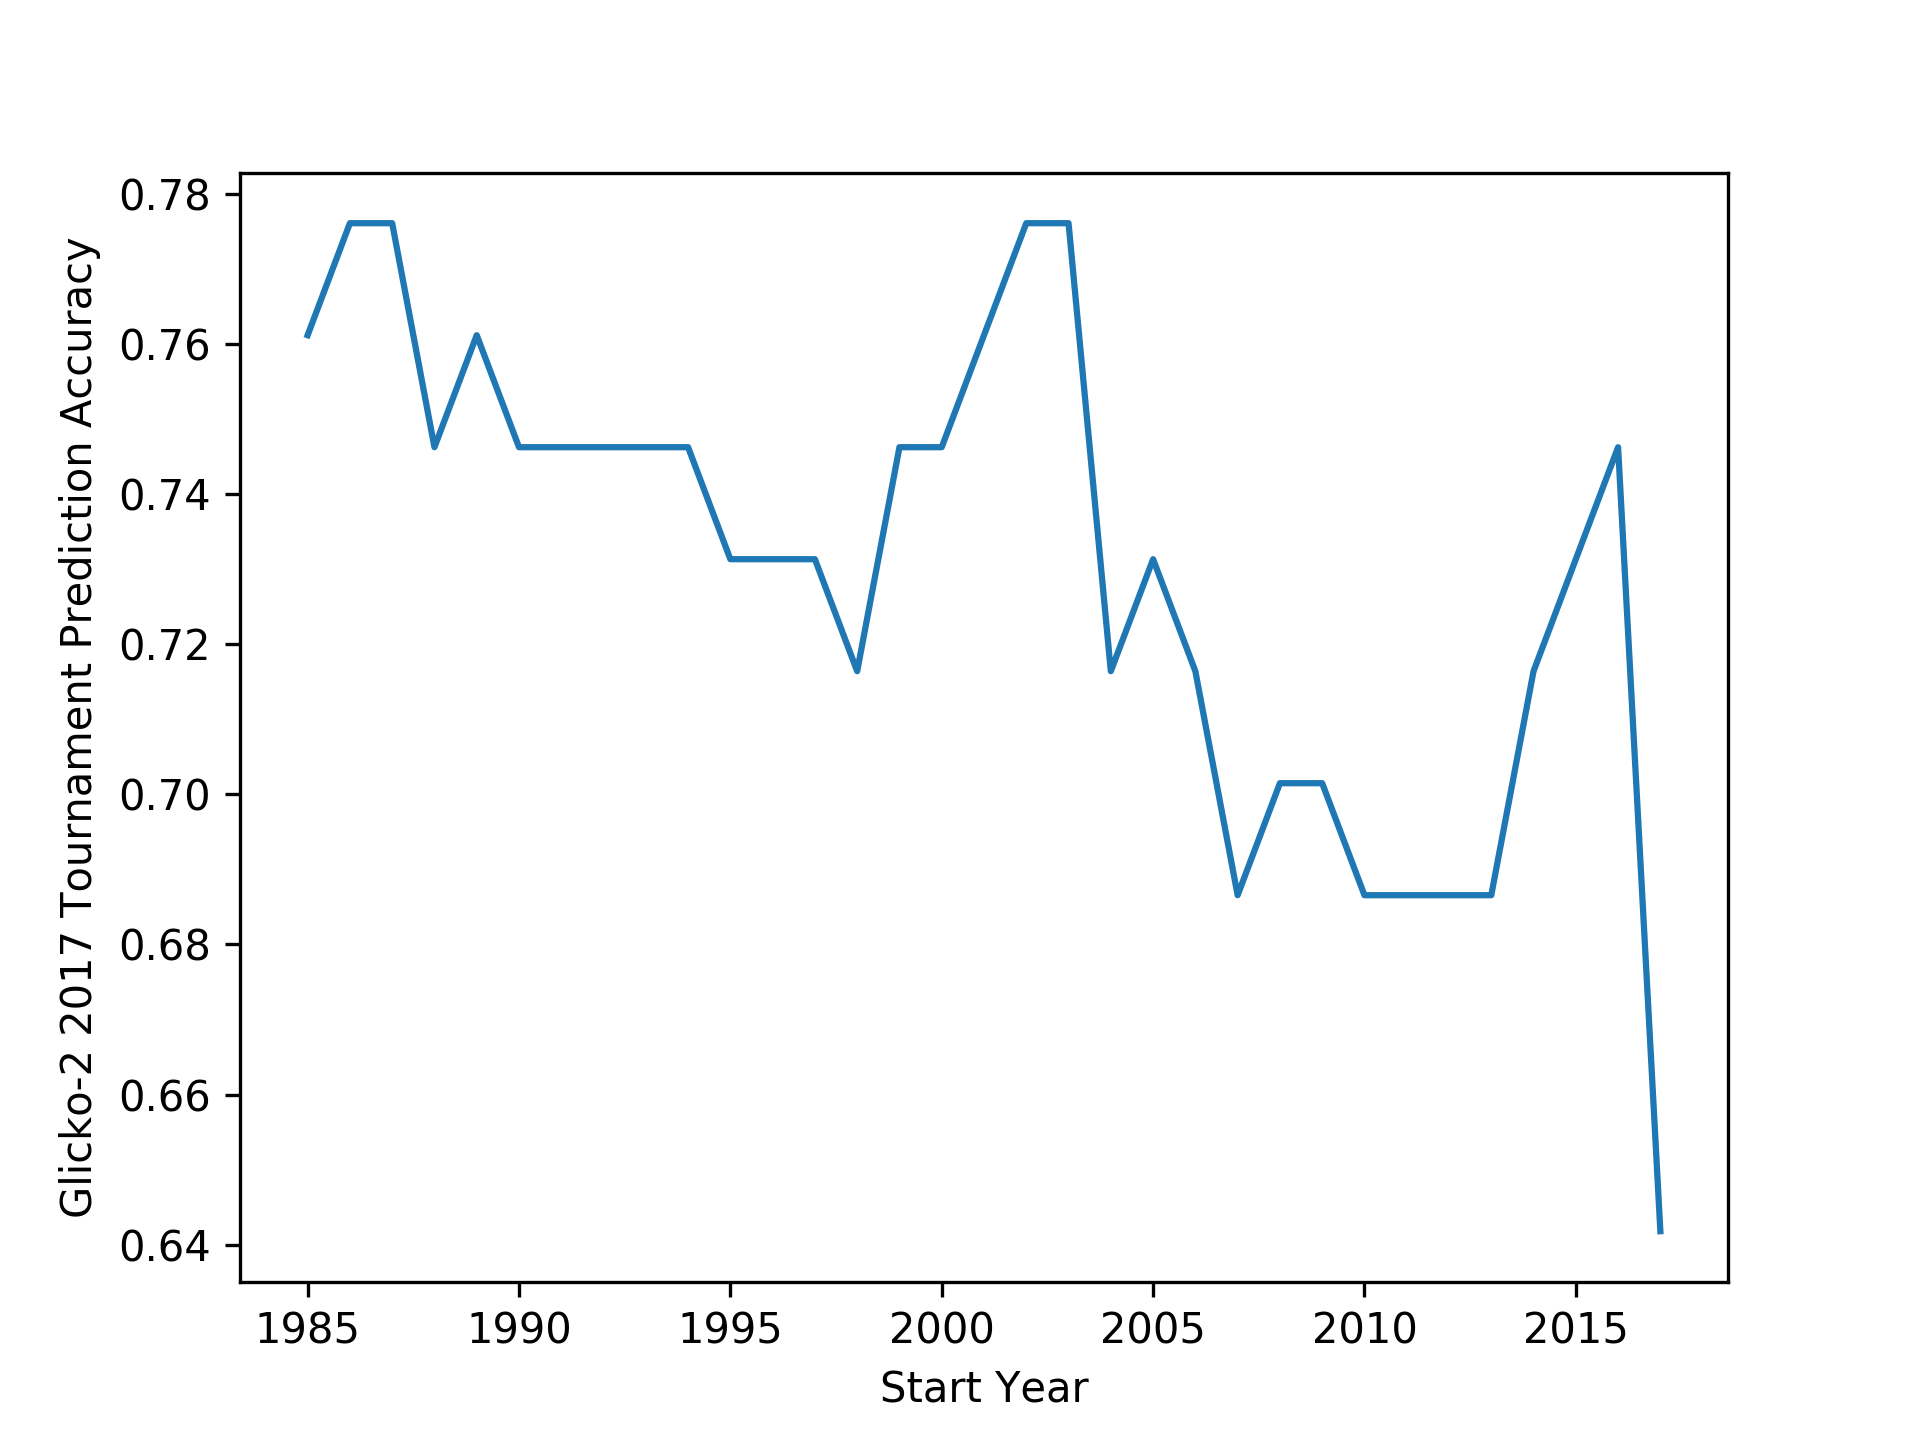
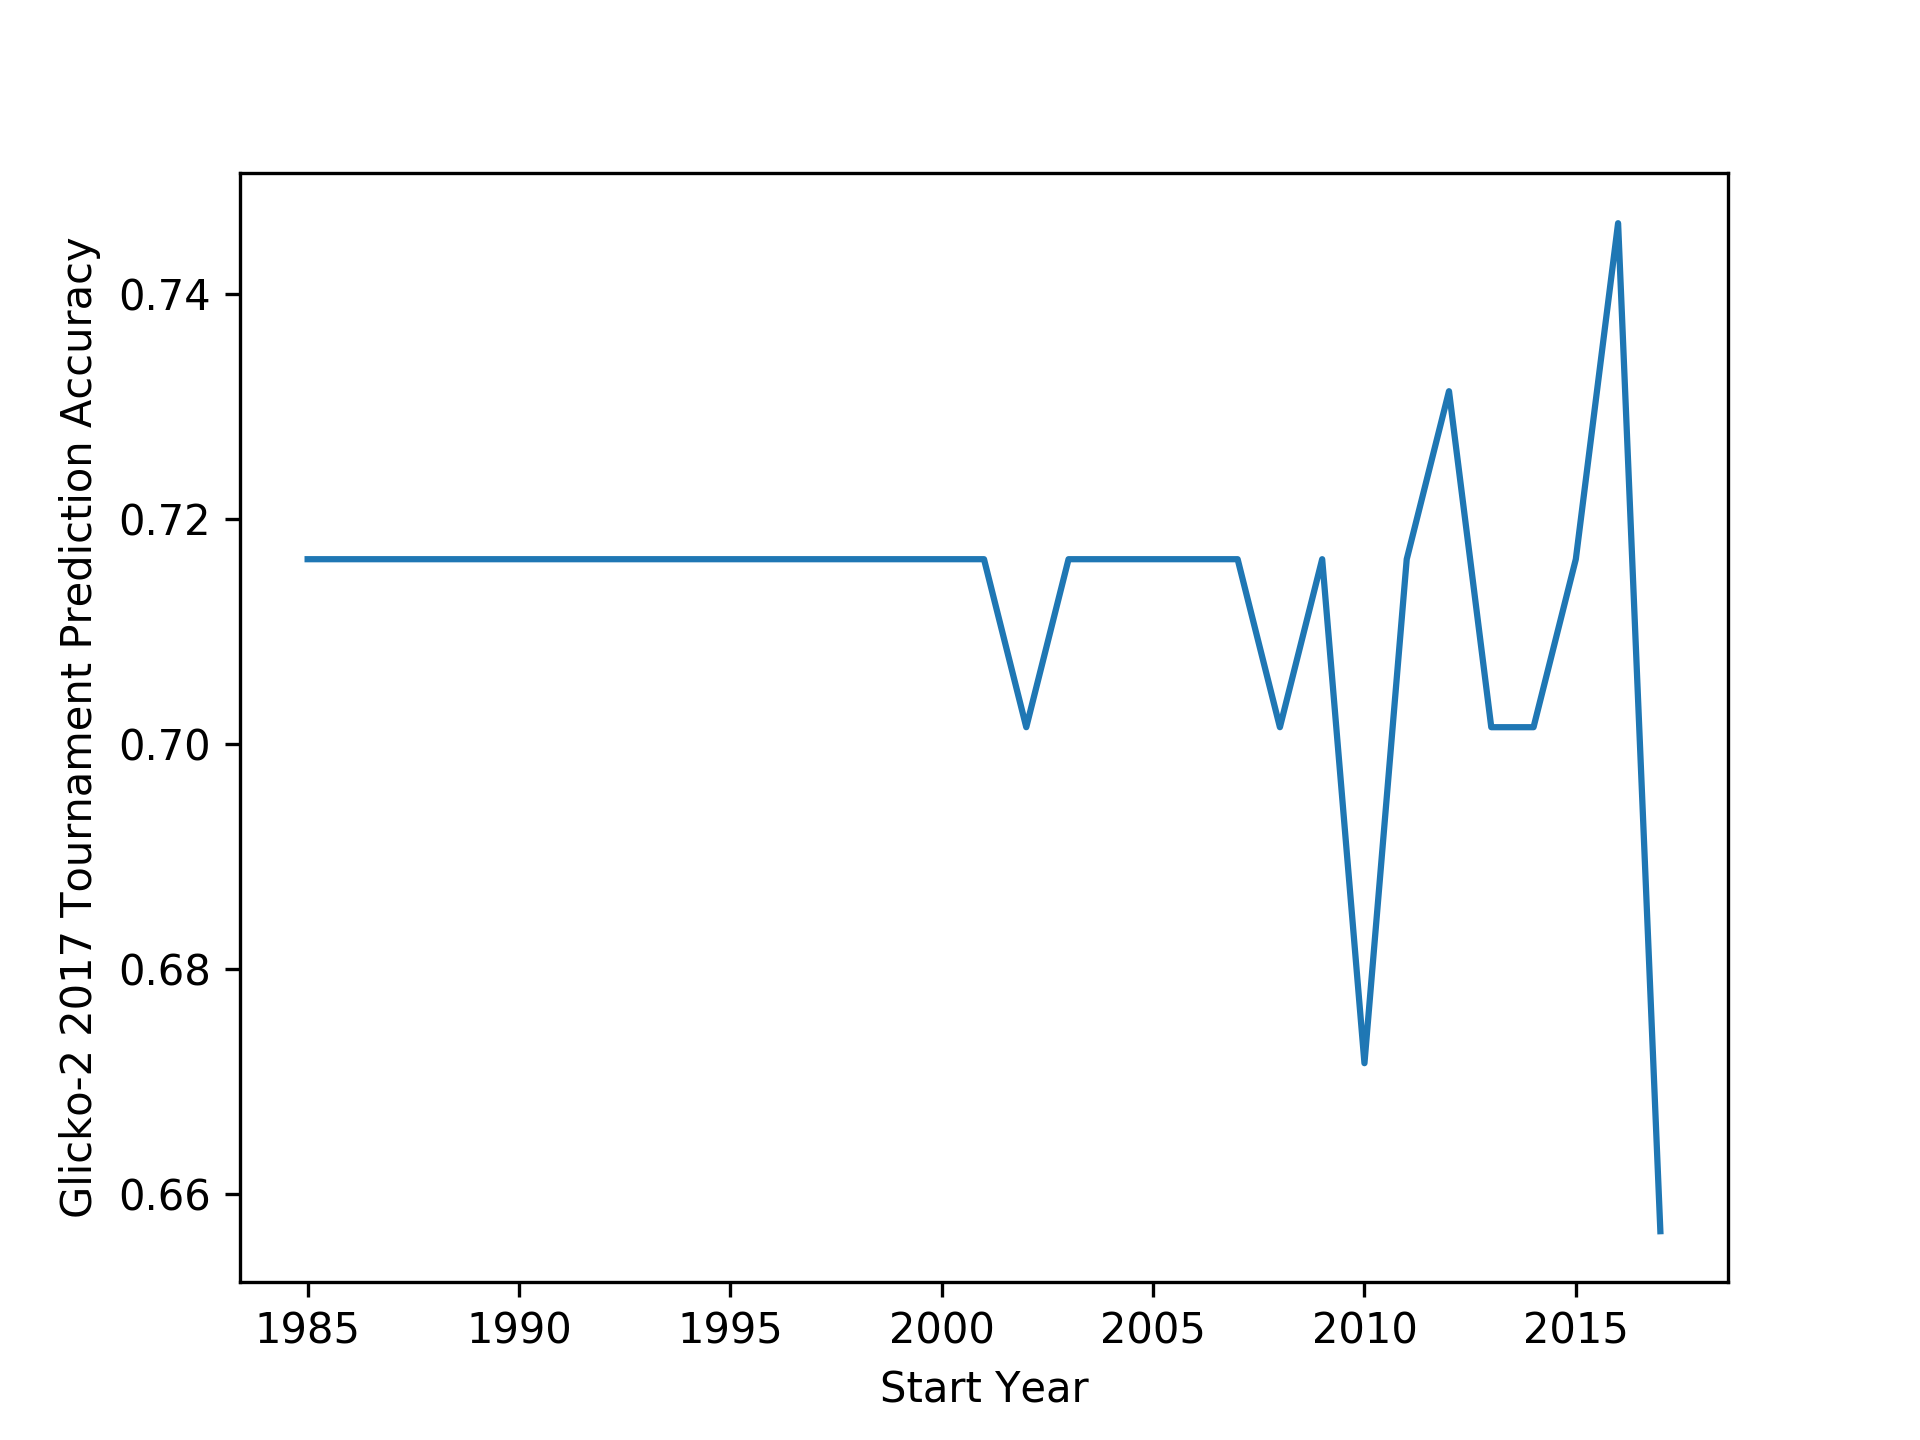
Update rating deviation experiment.

diff --git a/rd_experiment.py b/rd_experiment.py
@@ -18,7 +18,6 @@ def main():
     end_year = 2017  # We are predicting the results of the 2017 tournament.
 
     reg = pd.read_csv('./data/RegularSeasonCompactResults.csv')
-    cf_tourney = pd.read_csv('./data/ConferenceTourneyGames.csv')
     ncaa_tourney = pd.read_csv('./data/NCAATourneyCompactResults.csv')
     start_years = range(1985, end_year + 1)
     plot_years = [end_year, end_year - 1, end_year - 5, end_year - 10, 1985]
@@ -27,17 +26,12 @@ def main():
     accuracies = {}  # Accuracy on the "end_year" NCAA tournament
     for start_year in start_years:
         reg_s = reg.loc[reg.Season > start_year - 1]
-        cf_s = cf_tourney.loc[cf_tourney.Season > start_year - 1]
-        ncaa_train = ncaa_tourney.loc[ncaa_tourney.Season > start_year]
-        ncaa_train = ncaa_train.loc[ncaa_train.Season != end_year]
         ncaa_test = ncaa_tourney.loc[ncaa_tourney.Season == end_year]
 
         team_ids = set(reg_s.WTeamID).union(set(reg_s.LTeamID))
         glicko = {team_id: Player() for team_id in team_ids}
 
-        glicko_rounds(glicko, [], reg_s)        # Update glickos on regular season data.
-        glicko_rounds(glicko, [], cf_s)         # Update on conference tournament.
-        glicko_rounds(glicko, [], ncaa_train)   # Update on previous NCAA tournaments (may be empty if start_year).
+        glicko_rounds(glicko, [], reg_s)  # Update glickos on regular season data (includes conference tournament).
 
         predictions = []
         glicko_rounds(glicko, predictions, ncaa_test)  # Test the predictive quality of glicko training.
